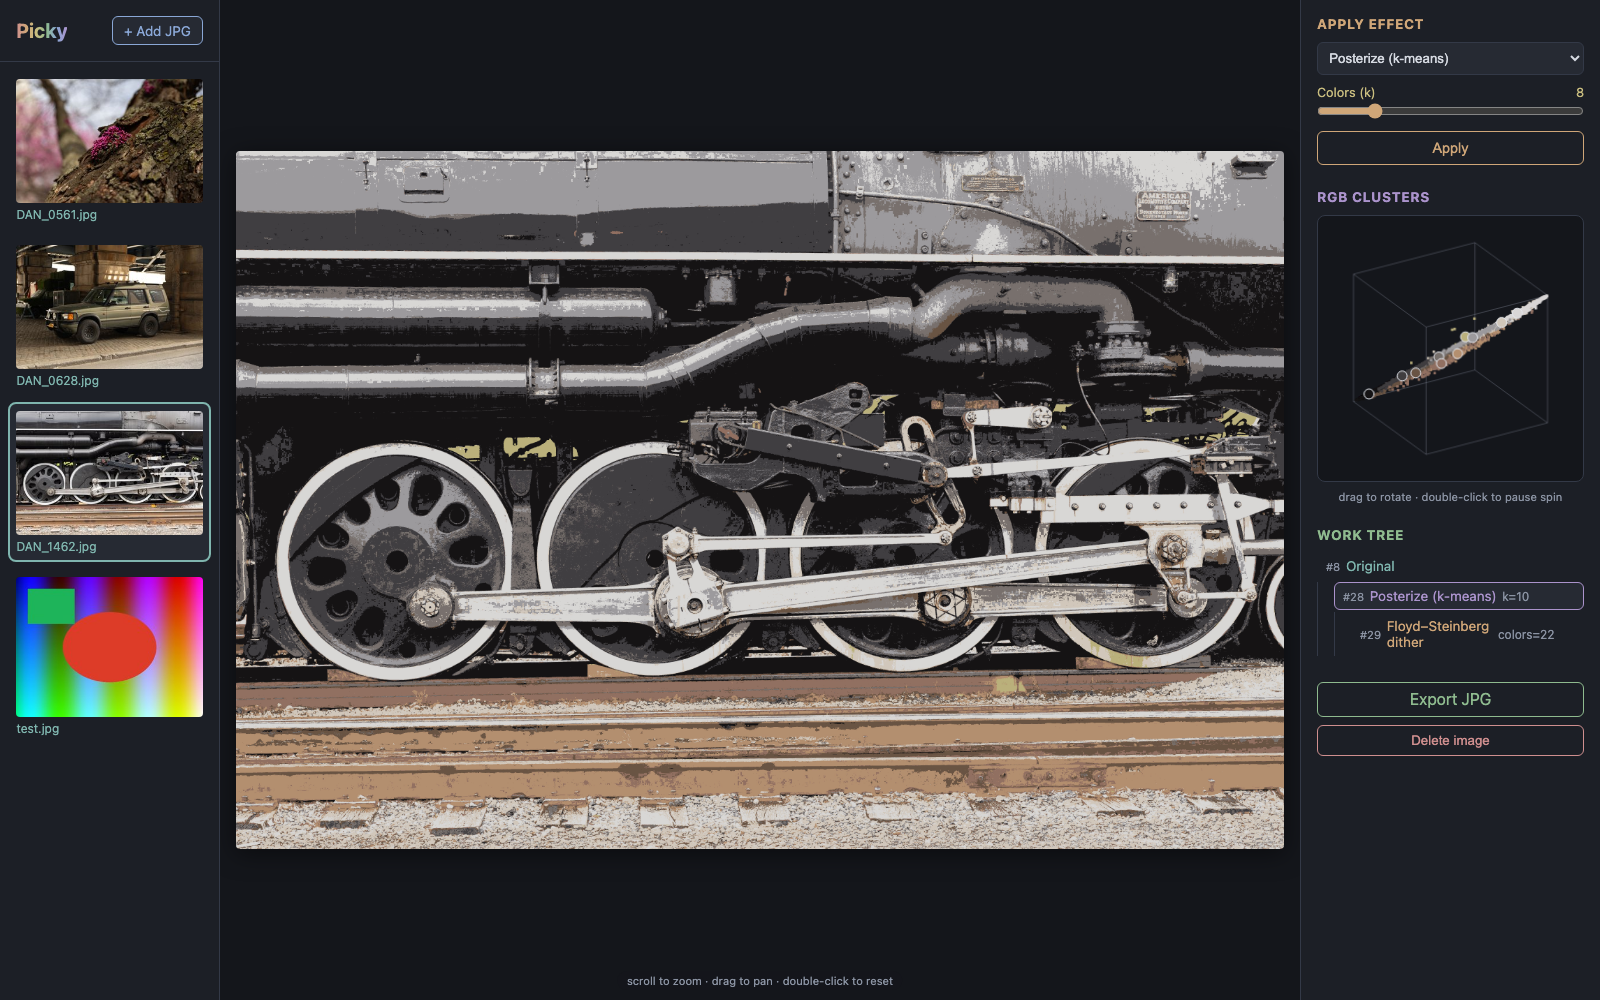
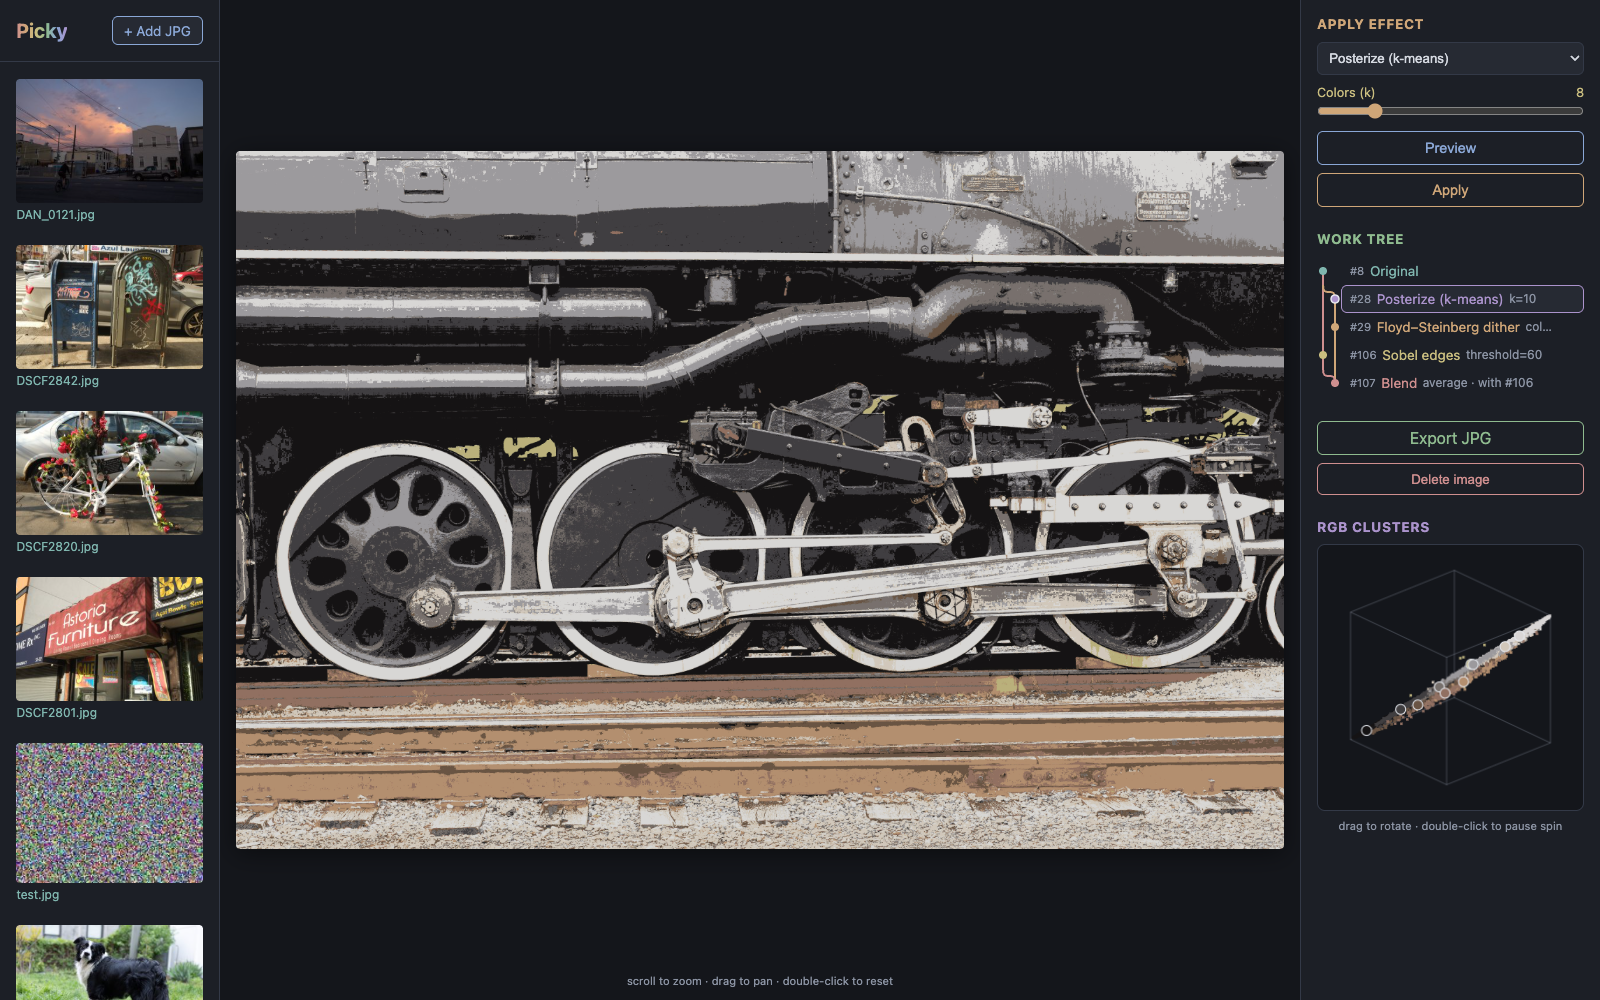
Update README screenshot to show the DAG work tree
Same posterized locomotive scene, now with the commit-graph rails
(branch + blend merge), the Preview button, and the relocated cluster
plot visible.

Claude-Session: https://claude.ai/code/session_01SgpUrt1htofyoVVtjbfzCT

diff --git a/README.md b/README.md
@@ -6,7 +6,7 @@ currently selected node, so you can return to any earlier state and branch off
 in a new direction. Images, trees, and rendered results persist across
 restarts.
 
-![Picky screenshot: a posterized locomotive photo with its RGB cluster plot and work tree](docs/screenshot.png)
+![Picky screenshot: a posterized locomotive photo with its RGB cluster plot and a work tree drawn as a commit-graph DAG with a branch and a blend merge](docs/screenshot.png)
 
 ## Features
 
